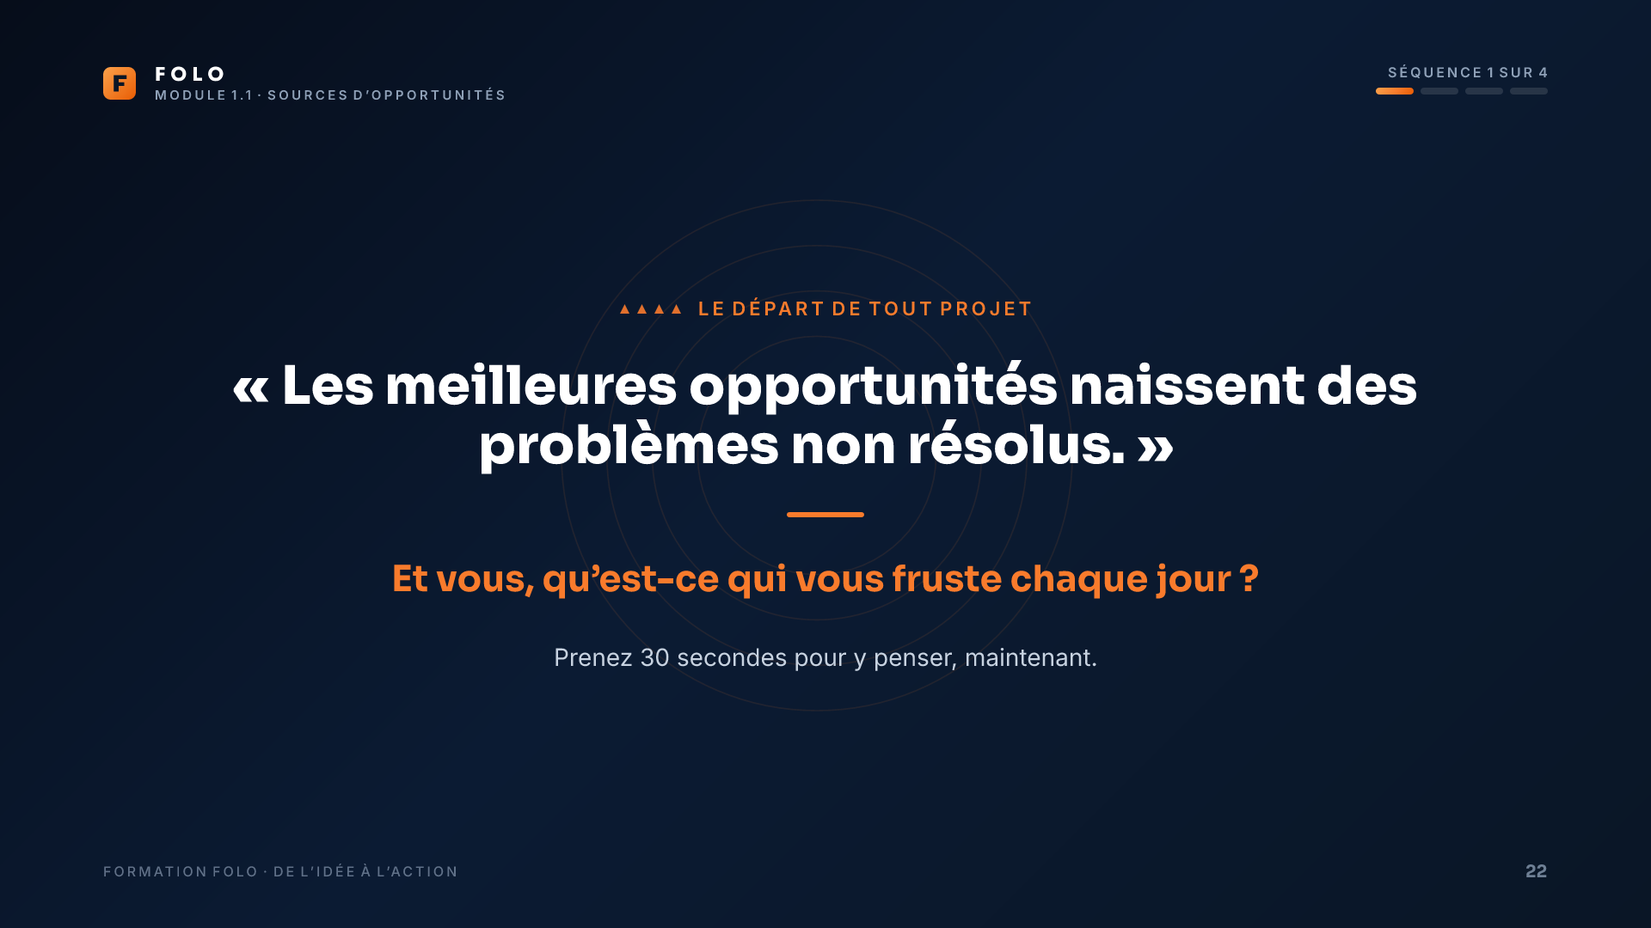
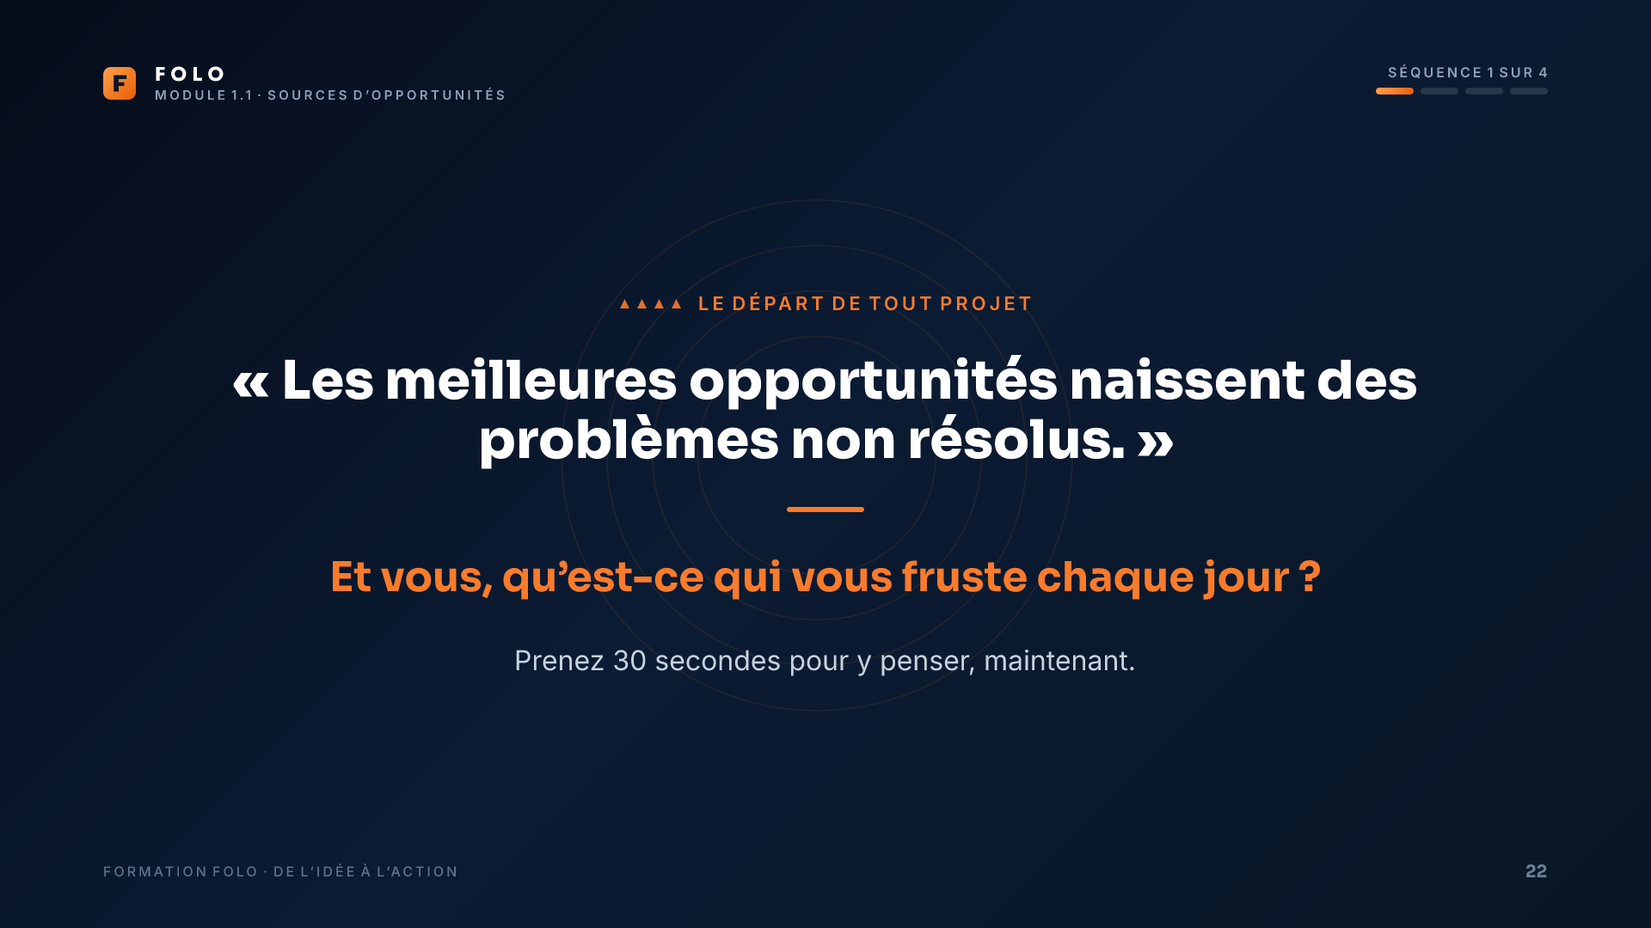
FOLO lot 3 rev1: textes mobiles +15%, centrages et badge minuteur corrigés

diff --git a/formation-folo/src/slides/lot03.js b/formation-folo/src/slides/lot03.js
@@ -27,25 +27,25 @@ export function slide21() {
     children: [
       d({ display: 'flex', flexDirection: 'column', alignItems: 'center', marginTop: 8 }, kicker('Séquence 1.1 · Env. 15 minutes')),
       d({ display: 'flex', justifyContent: 'center', marginTop: 26 }, centerTitle('Sources d\u2019opportunités', 84)),
-      d({ fontFamily: F.body, fontWeight: 400, fontSize: 30, lineHeight: 1.5, color: C.grey, textAlign: 'center', maxWidth: 1200, marginTop: 24, alignSelf: 'center' },
+      d({ fontFamily: F.body, fontWeight: 400, fontSize: 34, lineHeight: 1.5, color: C.grey, textAlign: 'center', maxWidth: 1200, marginTop: 24, alignSelf: 'center' },
         'Trois endroits précis où se cachent les bonnes idées de projet.'),
 
       d({ ...lightCard(), display: 'flex', flexDirection: 'column', gap: 30, padding: '46px 56px', marginTop: 52, width: 1180, alignSelf: 'center' }, [
-        d({ fontFamily: F.body, fontWeight: 800, fontSize: 22, letterSpacing: 3, color: MC.inkSoft, lineHeight: 1 },
+        d({ fontFamily: F.body, fontWeight: 800, fontSize: 25, letterSpacing: 3, color: MC.inkSoft, lineHeight: 1 },
           'À LA FIN DE CETTE SÉQUENCE, VOUS AUREZ :'),
         d({ display: 'flex', flexDirection: 'row', alignItems: 'center', gap: 20 }, [
-          icon('check', 30, ORANGE, 2.6),
-          d({ fontFamily: F.body, fontWeight: 600, fontSize: 31, color: MC.ink, lineHeight: 1.4 }, 'Identifié 3 sources d\u2019opportunités autour de vous.'),
+          icon('check', 34, ORANGE, 2.6),
+          d({ fontFamily: F.body, fontWeight: 600, fontSize: 36, color: MC.ink, lineHeight: 1.4 }, 'Identifié 3 sources d\u2019opportunités autour de vous.'),
         ]),
         d({ display: 'flex', flexDirection: 'row', alignItems: 'center', gap: 20 }, [
-          icon('check', 30, ORANGE, 2.6),
-          d({ fontFamily: F.body, fontWeight: 600, fontSize: 31, color: MC.ink, lineHeight: 1.4 }, 'Noté 5 idées de projets potentielles.'),
+          icon('check', 34, ORANGE, 2.6),
+          d({ fontFamily: F.body, fontWeight: 600, fontSize: 36, color: MC.ink, lineHeight: 1.4 }, 'Noté 5 idées de projets potentielles.'),
         ]),
       ]),
 
       d({ display: 'flex', flexDirection: 'row', alignItems: 'center', gap: 28, marginTop: 56, alignSelf: 'center' }, [
         dots(1, 4),
-        d({ fontFamily: F.body, fontWeight: 700, fontSize: 26, letterSpacing: 1.5, color: C.grey, lineHeight: 1 }, '25 % DU MODULE'),
+        d({ fontFamily: F.body, fontWeight: 700, fontSize: 30, letterSpacing: 1.5, color: C.grey, lineHeight: 1 }, '25 % DU MODULE'),
       ]),
     ],
   });
@@ -64,9 +64,9 @@ export function slide22() {
         kicker('Le départ de tout projet'),
         centerTitle('« Les meilleures opportunités naissent des problèmes non résolus. »', 62),
         d({ width: 90, height: 6, borderRadius: 3, background: ORANGE }),
-        d({ fontFamily: F.display, fontWeight: 700, fontSize: 42, lineHeight: 1.3, color: ORANGE, textAlign: 'center' },
+        d({ fontFamily: F.display, fontWeight: 700, fontSize: 48, lineHeight: 1.3, color: ORANGE, textAlign: 'center' },
           'Et vous, qu\u2019est-ce qui vous fruste chaque jour ?'),
-        d({ fontFamily: F.body, fontWeight: 400, fontSize: 28, color: C.grey, lineHeight: 1.4 },
+        d({ fontFamily: F.body, fontWeight: 400, fontSize: 32, color: C.grey, lineHeight: 1.4 },
           'Prenez 30 secondes pour y penser, maintenant.'),
       ]),
     ],
@@ -82,10 +82,10 @@ export function slide23() {
       ...(last ? { background: C.orangeGrad } : lightCard()),
       borderRadius: 24,
       display: 'flex', justifyContent: 'center', alignItems: 'center',
-      padding: '28px 44px', width: 880,
+      padding: '30px 48px', width: 980,
     },
       d({
-        fontFamily: F.display, fontWeight: 800, fontSize: 36, letterSpacing: 1, lineHeight: 1.1,
+        fontFamily: F.display, fontWeight: 800, fontSize: 41, letterSpacing: 1, lineHeight: 1.1,
         color: last ? '#FFFFFF' : MC.ink, textAlign: 'center',
       }, txt));
 
@@ -98,20 +98,20 @@ export function slide23() {
 
       d({ display: 'flex', flexDirection: 'column', alignItems: 'center', gap: 20, marginTop: 44 }, [
         maillon('FRUSTRATIONS PERSONNELLES'),
-        icon('arrowDown', 40, ORANGE, 2.4),
+        icon('arrowDown', 46, ORANGE, 2.4),
         maillon('BESOINS NON SATISFAITS'),
-        icon('arrowDown', 40, ORANGE, 2.4),
+        icon('arrowDown', 46, ORANGE, 2.4),
         maillon('OPPORTUNITÉ D\u2019AFFAIRES', true),
       ]),
 
       d({ display: 'flex', flexDirection: 'row', justifyContent: 'center', gap: 24, marginTop: 46 }, [
         d({ ...panel(), display: 'flex', flexDirection: 'row', alignItems: 'center', gap: 14, padding: '18px 30px', borderRadius: 999 }, [
-          icon('alert', 24, ORANGE, 2.2),
-          d({ fontFamily: F.body, fontWeight: 500, fontSize: 25, color: C.grey, lineHeight: 1.3 }, 'Coupures d\u2019électricité → solutions solaires'),
+          icon('alert', 28, ORANGE, 2.2),
+          d({ fontFamily: F.body, fontWeight: 500, fontSize: 29, color: C.grey, lineHeight: 1.3 }, 'Coupures d\u2019électricité → solutions solaires'),
         ]),
         d({ ...panel(), display: 'flex', flexDirection: 'row', alignItems: 'center', gap: 14, padding: '18px 30px', borderRadius: 999 }, [
-          icon('alert', 24, ORANGE, 2.2),
-          d({ fontFamily: F.body, fontWeight: 500, fontSize: 25, color: C.grey, lineHeight: 1.3 }, 'Transport difficile → services de livraison'),
+          icon('alert', 28, ORANGE, 2.2),
+          d({ fontFamily: F.body, fontWeight: 500, fontSize: 29, color: C.grey, lineHeight: 1.3 }, 'Transport difficile → services de livraison'),
         ]),
       ]),
     ],
@@ -123,12 +123,12 @@ export function slide23() {
 /* ------------------------------------------------------------------ */
 export function slide24() {
   const card = (num, ic, title, sub) =>
-    d({ ...lightCard(), flex: 1, display: 'flex', flexDirection: 'column', alignItems: 'center', gap: 20, padding: '40px 34px', textAlign: 'center' }, [
+    d({ ...lightCard(), flex: 1, display: 'flex', flexDirection: 'column', alignItems: 'center', gap: 16, padding: '32px 30px', textAlign: 'center' }, [
       bigNum(num),
-      d({ display: 'flex', justifyContent: 'center', alignItems: 'center', width: 96, height: 96, borderRadius: 48, background: 'rgba(249,123,44,0.12)' },
+      d({ display: 'flex', justifyContent: 'center', alignItems: 'center', width: 110, height: 110, borderRadius: 55, background: 'rgba(249,123,44,0.12)' },
         icon(ic, 52, ORANGE, 1.8)),
-      d({ fontFamily: F.display, fontWeight: 800, fontSize: 30, lineHeight: 1.2, color: MC.ink, textAlign: 'center' }, title),
-      d({ fontFamily: F.body, fontWeight: 500, fontSize: 25, lineHeight: 1.45, color: MC.inkSoft, textAlign: 'center' }, sub),
+      d({ fontFamily: F.display, fontWeight: 800, fontSize: 34, lineHeight: 1.2, color: MC.ink, textAlign: 'center' }, title),
+      d({ fontFamily: F.body, fontWeight: 500, fontSize: 29, lineHeight: 1.45, color: MC.inkSoft, textAlign: 'center' }, sub),
     ]);
 
   return slide({
@@ -137,19 +137,19 @@ export function slide24() {
     children: [
       d({ display: 'flex', justifyContent: 'center', marginTop: 4 }, kicker('Exercice pratique')),
       d({ display: 'flex', justifyContent: 'center', marginTop: 24 }, centerTitle('Identifiez 3 problèmes', 74)),
-      d({ fontFamily: F.body, fontWeight: 400, fontSize: 30, color: C.grey, textAlign: 'center', marginTop: 18, alignSelf: 'center' },
+      d({ fontFamily: F.body, fontWeight: 400, fontSize: 34, color: C.grey, textAlign: 'center', marginTop: 18, alignSelf: 'center' },
         'Identifiez 3 problèmes autour de vous :'),
 
-      d({ display: 'flex', flexDirection: 'row', gap: 30, marginTop: 44, alignItems: 'stretch' }, [
+      d({ display: 'flex', flexDirection: 'row', gap: 30, marginTop: 32, alignItems: 'stretch' }, [
         card('01', 'alert', 'CE QUI VOUS ÉNERVE', 'Un problème que vous affrontez presque chaque jour.'),
         card('02', 'home', 'CE QUI MANQUE DANS VOTRE QUARTIER', 'Un produit ou un service absent autour de vous.'),
         card('03', 'users', 'CE QUE VOS PROCHES RECHERCHENT', 'Ce qu\u2019ils veulent obtenir sans jamais le trouver.'),
       ]),
 
-      d({ display: 'flex', flexDirection: 'row', alignItems: 'center', justifyContent: 'space-between', marginTop: 46 }, [
+      d({ display: 'flex', flexDirection: 'row', alignItems: 'center', justifyContent: 'space-between', marginTop: 22 }, [
         timerBadge('3', 'MINUTES'),
         d({ ...lightCard(), flex: 1, display: 'flex', flexDirection: 'row', alignItems: 'center', justifyContent: 'space-between', padding: '22px 26px 22px 44px', marginLeft: 40, borderRadius: 999 }, [
-          d({ fontFamily: F.display, fontWeight: 800, fontSize: 34, color: MC.ink, lineHeight: 1 }, 'À VOUS DE JOUER'),
+          d({ fontFamily: F.display, fontWeight: 800, fontSize: 39, color: MC.ink, lineHeight: 1 }, 'À VOUS DE JOUER'),
           button('Télécharger la fiche exercice'),
         ]),
       ]),
@@ -164,7 +164,7 @@ export function slide25() {
   const row = (ic, txt) =>
     d({ display: 'flex', flexDirection: 'row', alignItems: 'center', gap: 24 }, [
       icon(ic, 40, ORANGE, 2),
-      d({ fontFamily: F.body, fontWeight: 600, fontSize: 33, color: 'rgba(255,255,255,0.95)', lineHeight: 1.3 }, txt),
+      d({ fontFamily: F.body, fontWeight: 600, fontSize: 38, color: 'rgba(255,255,255,0.95)', lineHeight: 1.3 }, txt),
     ]);
 
   return slide({
@@ -183,11 +183,11 @@ export function slide25() {
           row('gradcap', 'Formation en ligne'),
           row('coins', 'Mobile money'),
         ]),
-        icon('trendUp', 330, ORANGE, 1.6),
+        icon('trendUp', 379, ORANGE, 1.6),
       ]),
 
       d({ display: 'flex', justifyContent: 'center', alignItems: 'center', background: C.orangeGrad, borderRadius: 20, padding: '26px 40px' },
-        d({ fontFamily: F.display, fontWeight: 700, fontSize: 31, color: '#FFFFFF', lineHeight: 1.3, textAlign: 'center' },
+        d({ fontFamily: F.display, fontWeight: 700, fontSize: 36, color: '#FFFFFF', lineHeight: 1.3, textAlign: 'center' },
           'Une opportunité, c\u2019est anticiper les besoins de demain.')),
     ],
   });
@@ -202,9 +202,9 @@ export function slide26() {
       d({
         display: 'flex', justifyContent: 'center', alignItems: 'center',
         width: 58, height: 58, borderRadius: 29, background: C.orangeGrad, flexShrink: 0,
-        fontFamily: F.display, fontWeight: 800, fontSize: 26, color: '#FFFFFF', lineHeight: 1,
+        fontFamily: F.display, fontWeight: 800, fontSize: 30, color: '#FFFFFF', lineHeight: 1,
       }, letter),
-      d({ fontFamily: F.body, fontWeight: 600, fontSize: 28, color: MC.ink, lineHeight: 1.3 }, txt),
+      d({ fontFamily: F.body, fontWeight: 600, fontSize: 32, color: MC.ink, lineHeight: 1.3 }, txt),
     ]);
 
   return slide({
@@ -213,7 +213,7 @@ export function slide26() {
     children: [
       d({ display: 'flex', justifyContent: 'center', marginTop: 4 }, kicker('Quiz express')),
       d({ ...panel({ border: `2px solid rgba(255,255,255,0.35)`, borderRadius: 32 }), display: 'flex', justifyContent: 'center', alignItems: 'center', padding: '40px 60px', marginTop: 40 },
-        d({ fontFamily: F.display, fontWeight: 800, fontSize: 52, lineHeight: 1.25, color: C.white, textAlign: 'center' },
+        d({ fontFamily: F.display, fontWeight: 800, fontSize: 60, lineHeight: 1.25, color: C.white, textAlign: 'center' },
           'Quelle tendance impacte le plus votre secteur ?')),
 
       d({ display: 'flex', flexDirection: 'column', gap: 26, marginTop: 44 }, [
@@ -222,8 +222,8 @@ export function slide26() {
       ]),
 
       d({ display: 'flex', flexDirection: 'row', alignItems: 'center', justifyContent: 'center', gap: 20, marginTop: 46 }, [
-        icon('clock', 34, ORANGE, 2.2),
-        d({ fontFamily: F.body, fontWeight: 700, fontSize: 29, color: 'rgba(255,255,255,0.92)', lineHeight: 1.3 },
+        icon('clock', 39, ORANGE, 2.2),
+        d({ fontFamily: F.body, fontWeight: 700, fontSize: 33, color: 'rgba(255,255,255,0.92)', lineHeight: 1.3 },
           '10 secondes pour répondre mentalement.'),
       ]),
     ],
@@ -235,8 +235,8 @@ export function slide26() {
 /* ------------------------------------------------------------------ */
 export function slide27() {
   const maillon = (txt) =>
-    d({ ...lightCard(), display: 'flex', justifyContent: 'center', alignItems: 'center', padding: '26px 40px', borderRadius: 22, width: 760 },
-      d({ fontFamily: F.display, fontWeight: 800, fontSize: 31, letterSpacing: 0.8, color: MC.ink, textAlign: 'center', lineHeight: 1.15 }, txt));
+    d({ ...lightCard(), display: 'flex', justifyContent: 'center', alignItems: 'center', padding: '26px 40px', borderRadius: 24, width: 860 },
+      d({ fontFamily: F.display, fontWeight: 800, fontSize: 36, letterSpacing: 0.8, color: MC.ink, textAlign: 'center', lineHeight: 1.15 }, txt));
 
   return slide({
     page: 27,
@@ -248,19 +248,19 @@ export function slide27() {
       d({ display: 'flex', flexDirection: 'row', alignItems: 'center', justifyContent: 'center', gap: 44, flex: 1, marginTop: 16 }, [
         d({ display: 'flex', flexDirection: 'column', alignItems: 'center', gap: 16 }, [
           maillon('CE QUE VOUS SAVEZ FAIRE'),
-          icon('arrowDown', 36, ORANGE, 2.4),
+          icon('arrowDown', 41, ORANGE, 2.4),
           maillon('CE QUE VOUS AIMEZ FAIRE'),
-          icon('arrowDown', 36, ORANGE, 2.4),
+          icon('arrowDown', 41, ORANGE, 2.4),
           maillon('CE DONT LE MARCHÉ A BESOIN'),
         ]),
-        icon('arrowRight', 52, ORANGE, 2.2),
+        icon('arrowRight', 60, ORANGE, 2.2),
         d({
           display: 'flex', flexDirection: 'column', justifyContent: 'center', alignItems: 'center', gap: 8,
-          width: 380, height: 380, borderRadius: 190, background: C.orangeGrad,
+          width: 430, height: 430, borderRadius: 215, background: C.orangeGrad,
         }, [
-          d({ fontFamily: F.display, fontWeight: 800, fontSize: 40, lineHeight: 1.05, color: '#FFFFFF', textAlign: 'center' }, 'VOTRE'),
-          d({ fontFamily: F.display, fontWeight: 800, fontSize: 40, lineHeight: 1.05, color: '#FFFFFF', textAlign: 'center' }, 'OPPORTUNITÉ'),
-          d({ fontFamily: F.display, fontWeight: 800, fontSize: 40, lineHeight: 1.05, color: '#FFFFFF', textAlign: 'center' }, 'EN OR'),
+          d({ fontFamily: F.display, fontWeight: 800, fontSize: 46, lineHeight: 1.05, color: '#FFFFFF', textAlign: 'center' }, 'VOTRE'),
+          d({ fontFamily: F.display, fontWeight: 800, fontSize: 46, lineHeight: 1.05, color: '#FFFFFF', textAlign: 'center' }, 'OPPORTUNITÉ'),
+          d({ fontFamily: F.display, fontWeight: 800, fontSize: 46, lineHeight: 1.05, color: '#FFFFFF', textAlign: 'center' }, 'EN OR'),
         ]),
       ]),
 
@@ -277,9 +277,9 @@ export function slide28() {
     d({ display: 'flex', flexDirection: 'column', gap: 10 }, [
       d({ display: 'flex', flexDirection: 'row', alignItems: 'center', gap: 14 }, [
         icon(ic, 26, ORANGE, 2.2),
-        d({ fontFamily: F.body, fontWeight: 800, fontSize: 22, letterSpacing: 2.6, color: MC.inkSoft, lineHeight: 1 }, label),
+        d({ fontFamily: F.body, fontWeight: 800, fontSize: 25, letterSpacing: 2.6, color: MC.inkSoft, lineHeight: 1 }, label),
       ]),
-      d({ fontFamily: F.body, fontWeight: 500, fontSize: 28, lineHeight: 1.45, color: MC.ink }, txt),
+      d({ fontFamily: F.body, fontWeight: 500, fontSize: 32, lineHeight: 1.45, color: MC.ink }, txt),
     ]);
 
   return slide({
@@ -295,7 +295,7 @@ export function slide28() {
           border: `3px solid ${C.orangeBorder}`, alignSelf: 'center',
         }, { type: 'img', props: { src: FATOU, width: 464, height: 464, style: { borderRadius: 25 } } }),
         d({ ...lightCard(), flex: 1, display: 'flex', flexDirection: 'column', gap: 26, padding: '40px 46px' }, [
-          d({ fontFamily: F.display, fontWeight: 800, fontSize: 34, color: MC.ink, lineHeight: 1.1 }, 'Fatou · Ouagadougou'),
+          d({ fontFamily: F.display, fontWeight: 800, fontSize: 39, color: MC.ink, lineHeight: 1.1 }, 'Fatou · Ouagadougou'),
           line('alert', 'PROBLÈME', 'Après la récolte, 40 % des mangues perdaient leur valeur.'),
           line('bulb', 'SOLUTION', 'Une unité de séchage transforme les fruits en mangues sèches.'),
           line('trendUp', 'RÉSULTATS', '15 emplois créés · export régional · 25 millions de FCFA de chiffre d\u2019affaires.'),
@@ -303,7 +303,7 @@ export function slide28() {
       ]),
 
       d({ display: 'flex', justifyContent: 'center', alignItems: 'center', background: C.orangeGrad, borderRadius: 20, padding: '24px 40px', marginTop: 34 },
-        d({ fontFamily: F.display, fontWeight: 700, fontSize: 30, color: '#FFFFFF', lineHeight: 1.3, textAlign: 'center' },
+        d({ fontFamily: F.display, fontWeight: 700, fontSize: 34, color: '#FFFFFF', lineHeight: 1.3, textAlign: 'center' },
           'Leçon : observer les pertes, c\u2019est observer des opportunités.')),
     ],
   });
@@ -316,12 +316,12 @@ export function slide29() {
   const circle = (num, ic, l1, l2) =>
     d({
       display: 'flex', flexDirection: 'column', justifyContent: 'center', alignItems: 'center', gap: 12,
-      width: 330, height: 330, borderRadius: 165, background: C.orangeGrad,
+      width: 430, height: 430, borderRadius: 215, background: C.orangeGrad,
     }, [
-      d({ fontFamily: F.display, fontWeight: 800, fontSize: 56, color: '#FFFFFF', lineHeight: 1 }, num),
+      d({ fontFamily: F.display, fontWeight: 800, fontSize: 64, color: '#FFFFFF', lineHeight: 1 }, num),
       icon(ic, 44, '#FFFFFF', 2),
-      d({ fontFamily: F.display, fontWeight: 700, fontSize: 29, lineHeight: 1.2, color: '#FFFFFF', textAlign: 'center' }, l1),
-      d({ fontFamily: F.display, fontWeight: 700, fontSize: 29, lineHeight: 1.2, color: '#FFFFFF', textAlign: 'center' }, l2),
+      d({ fontFamily: F.display, fontWeight: 700, fontSize: 33, lineHeight: 1.2, color: '#FFFFFF', textAlign: 'center' }, l1),
+      d({ fontFamily: F.display, fontWeight: 700, fontSize: 33, lineHeight: 1.2, color: '#FFFFFF', textAlign: 'center' }, l2),
     ]);
 
   return slide({
@@ -339,8 +339,8 @@ export function slide29() {
 
       d({ ...lightCard(), display: 'flex', flexDirection: 'row', alignItems: 'center', justifyContent: 'space-between', padding: '20px 24px 20px 44px', borderRadius: 999, marginTop: 64 }, [
         d({ display: 'flex', flexDirection: 'row', alignItems: 'center', gap: 18 }, [
-          icon('flag', 30, MC.ink, 2.2),
-          d({ fontFamily: F.body, fontWeight: 700, fontSize: 29, color: MC.ink, lineHeight: 1.3 }, 'Action : notez 5 idées de projets.'),
+          icon('flag', 34, MC.ink, 2.2),
+          d({ fontFamily: F.body, fontWeight: 700, fontSize: 33, color: MC.ink, lineHeight: 1.3 }, 'Action : notez 5 idées de projets.'),
         ]),
         button('Grille d\u2019idéation'),
       ]),
@@ -364,11 +364,11 @@ export function slide30() {
     children: [
       d({ display: 'flex', flexDirection: 'column', alignItems: 'center', justifyContent: 'center', flex: 1, gap: 34 }, [
         centerTitle('Félicitations !', 92),
-        icon('trophy', 150, ORANGE, 1.5),
-        d({ fontFamily: F.display, fontWeight: 700, fontSize: 36, color: C.white, lineHeight: 1.2 }, 'Séquence 1.1 terminée'),
+        icon('trophy', 172, ORANGE, 1.5),
+        d({ fontFamily: F.display, fontWeight: 700, fontSize: 41, color: C.white, lineHeight: 1.2 }, 'Séquence 1.1 terminée'),
         dots(1, 4),
         d({ ...lightCard(), display: 'flex', flexDirection: 'column', alignItems: 'center', gap: 26, padding: '34px 54px', borderRadius: 28, marginTop: 8 }, [
-          d({ fontFamily: F.body, fontWeight: 700, fontSize: 29, color: MC.ink, lineHeight: 1.3 },
+          d({ fontFamily: F.body, fontWeight: 700, fontSize: 33, color: MC.ink, lineHeight: 1.3 },
             'Prochaine séquence : Techniques de créativité · 20 min'),
           d({ display: 'flex', flexDirection: 'row', gap: 22 }, [
             button('Continuer', 'arrowRight'),

diff --git a/formation-folo/src/dsm.js b/formation-folo/src/dsm.js
@@ -29,24 +29,24 @@ export const centerTitle = (txt, size = 78) =>
 /** Bouton plein orange (cible tactile généreuse). */
 export function button(label, iconName = 'download', iconColor = '#FFFFFF') {
   return d({
-    display: 'flex', flexDirection: 'row', alignItems: 'center', gap: 16,
+    display: 'flex', flexDirection: 'row', alignItems: 'center', gap: 18,
     background: C.orangeGrad, borderRadius: 999,
-    paddingTop: 20, paddingBottom: 20, paddingLeft: 40, paddingRight: 40,
+    paddingTop: 22, paddingBottom: 22, paddingLeft: 44, paddingRight: 44,
   }, [
-    icon(iconName, 26, iconColor, 2.4),
-    d({ fontFamily: F.body, fontWeight: 700, fontSize: 26, color: '#FFFFFF', lineHeight: 1 }, label),
+    icon(iconName, 30, iconColor, 2.4),
+    d({ fontFamily: F.body, fontWeight: 700, fontSize: 30, color: '#FFFFFF', lineHeight: 1 }, label),
   ]);
 }
 
 /** Bouton contour orange. */
 export function buttonOutline(label, iconName) {
   const kids = [];
-  if (iconName) kids.push(icon(iconName, 24, C.orange, 2.4));
-  kids.push(d({ fontFamily: F.body, fontWeight: 700, fontSize: 26, color: C.orange, lineHeight: 1 }, label));
+  if (iconName) kids.push(icon(iconName, 28, C.orange, 2.4));
+  kids.push(d({ fontFamily: F.body, fontWeight: 700, fontSize: 30, color: C.orange, lineHeight: 1 }, label));
   return d({
     display: 'flex', flexDirection: 'row', alignItems: 'center', gap: 14,
     border: `2px solid ${C.orangeBorder}`, borderRadius: 999,
-    paddingTop: 18, paddingBottom: 18, paddingLeft: 38, paddingRight: 38,
+    paddingTop: 20, paddingBottom: 20, paddingLeft: 42, paddingRight: 42,
     background: C.orangeSoft,
   }, kids);
 }
@@ -58,9 +58,9 @@ export function dots(active, total) {
       i < active
         ? d({
             display: 'flex', justifyContent: 'center', alignItems: 'center',
-            width: 40, height: 40, borderRadius: 20, background: C.orangeGrad,
-          }, icon('check', 20, '#FFFFFF', 3))
-        : d({ width: 40, height: 40, borderRadius: 20, background: 'rgba(255,255,255,0.22)' })
+            width: 46, height: 46, borderRadius: 23, background: C.orangeGrad,
+          }, icon('check', 23, '#FFFFFF', 3))
+        : d({ width: 46, height: 46, borderRadius: 23, background: 'rgba(255,255,255,0.22)' })
     ));
 }
 
@@ -68,14 +68,14 @@ export function dots(active, total) {
 export function timerBadge(line1, line2) {
   return d({
     display: 'flex', flexDirection: 'column', justifyContent: 'center', alignItems: 'center', gap: 6,
-    width: 148, height: 148, borderRadius: 74, background: C.orangeGrad,
+    width: 142, height: 142, borderRadius: 71, background: C.orangeGrad,
   }, [
     icon('clock', 40, '#FFFFFF', 2.2),
-    d({ fontFamily: F.display, fontWeight: 800, fontSize: 30, color: '#FFFFFF', lineHeight: 1 }, line1),
-    d({ fontFamily: F.body, fontWeight: 700, fontSize: 16, letterSpacing: 2, color: 'rgba(255,255,255,0.9)', lineHeight: 1 }, line2),
+    d({ fontFamily: F.display, fontWeight: 800, fontSize: 32, color: '#FFFFFF', lineHeight: 1 }, line1),
+    d({ fontFamily: F.body, fontWeight: 700, fontSize: 18, letterSpacing: 2, color: 'rgba(255,255,255,0.9)', lineHeight: 1 }, line2),
   ]);
 }
 
 /** Numéro géant orange (repère de scan). */
 export const bigNum = (n) =>
-  d({ fontFamily: F.display, fontWeight: 800, fontSize: 62, lineHeight: 1, color: C.orange }, n);
+  d({ fontFamily: F.display, fontWeight: 800, fontSize: 70, lineHeight: 1, color: C.orange }, n);

diff --git a/formation-folo/docs/06-charte-mobile.md b/formation-folo/docs/06-charte-mobile.md
@@ -35,4 +35,12 @@ sacrifier le français ni la cohérence d'identité.
 | Points progression | 26 px ; acquis = orange + coche blanche ; à venir = blanc 25 % |
 | Corps minimal | 28 px dans les cartes claires (lisibilité smartphone) |
 
+## Décision de révision n° 1 (commanditaire)
+
+Corps de texte de l'édition mobile augmentés de **+15 %** sur tout le lot 3
+(titres, cartes, boutons, badges), contenants ajustés en suivi ; vérification
+visuelle sans aucun débordement (le badge minuteur de la slide 24 a été
+redimensionné pour préserver le pied de page). Cette échelle devient la norme
+mobile de la formation.
+
 Règle inchangée : **une idée = un slide** ; sur mobile, encore moins d'éléments par slide.
